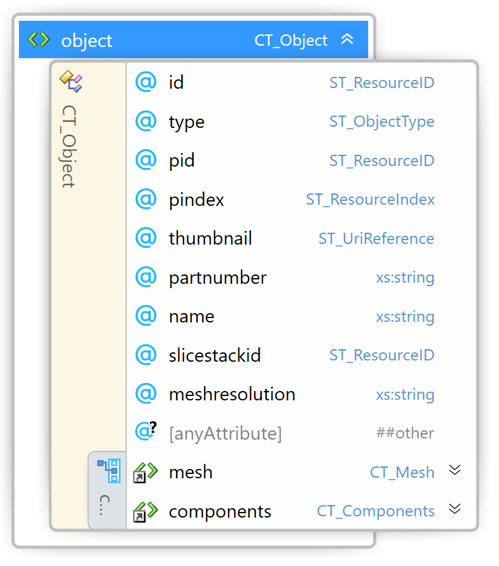
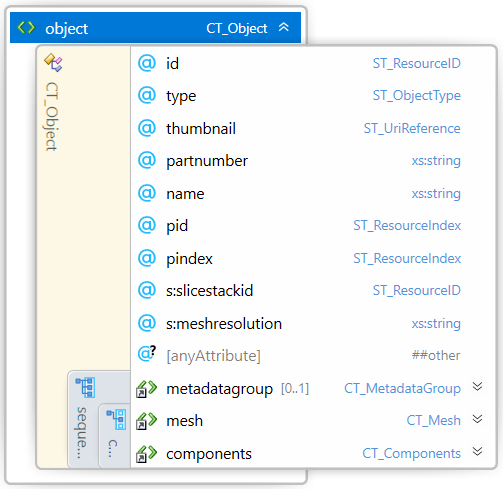
1.0.2 updates (#10)
* Namespace update

Add "s" prefix in diagramns that refer to the slice extension.
Added a paragrapsh about the "s" prefix in conventions.

* Prepare for publication

Changed region(s): [[0.0, 0.0, 1.0, 1.0]]

diff --git a/3MF Slice Extension.md b/3MF Slice Extension.md
@@ -12,7 +12,7 @@
 
 
 
-| **Version** | 1.0.1 |
+| **Version** | 1.0.2 |
 | --- | --- |
 | **Status** | Published |
 
@@ -61,6 +61,8 @@ This extension MUST be used only with Core specification 1.x.
 ## Document Conventions
 
 See [the 3MF Core Specification conventions](https://github.com/3MFConsortium/spec_core/blob/master/3MF%20Core%20Specification.md#document-conventions).
+
+In this extension specification, as an example, the prefix "s" maps to the xml-namespace "http://schemas.microsoft.com/3dmanufacturing/slice/2015/07". See Appendix [C.3 Namespaces](#c3-namespaces).
 
 ## Language Notes
 
@@ -236,6 +238,8 @@ In order to reference slice data, there are two additional attributes for \<obje
   * "_lowres"_: The included mesh is not sufficiently accurate to re-generate the slices contained in the 3MF package.
 
 A 3MF package containing "lowres" objects MUST list the slice extension in the requiredextensions property of the model section (see [chapter 1](https://github.com/3MFConsortium/spec_slice/blob/master/3MF%20Slice%20Extension.md#chapter-1-introduction)).
+
+The slicestack MIGHT be defined on a components object providing a slicestack for the combined components or on a referenced object. When the slicestack is defined in both types of objects, the slicestack that prevails MUST be the one at the components level.
 
 ## Slicestack
 
